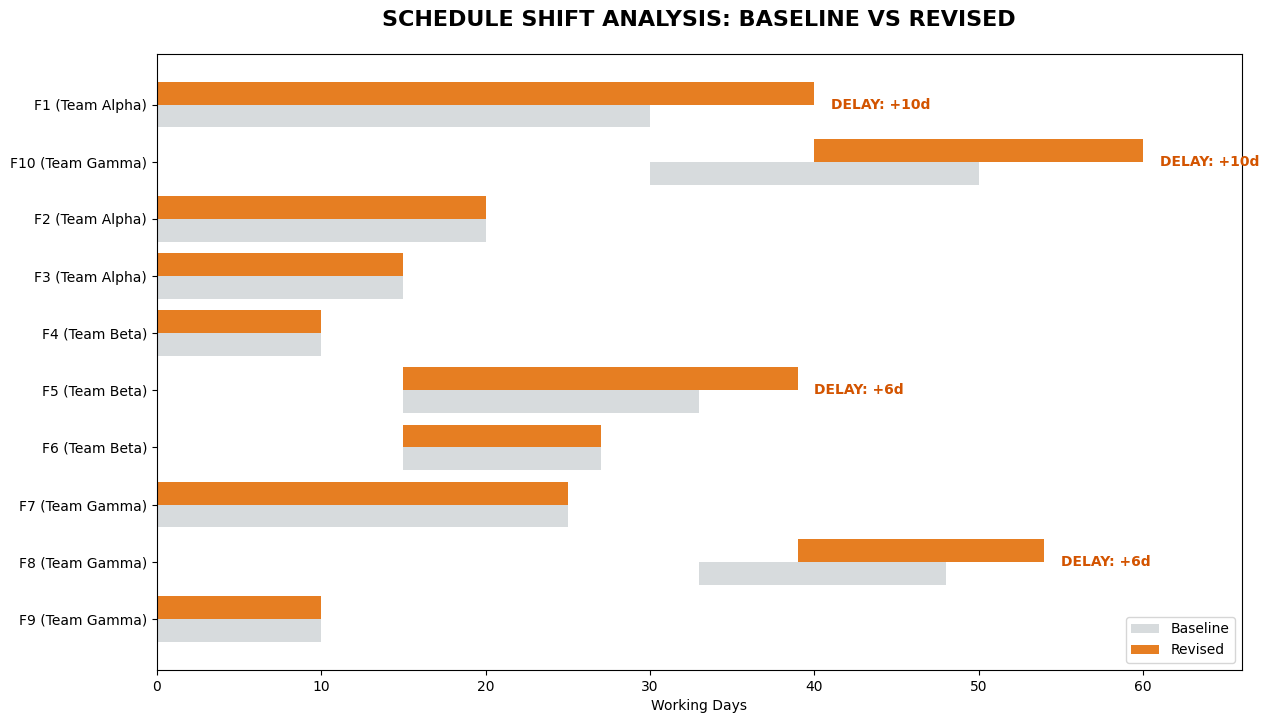
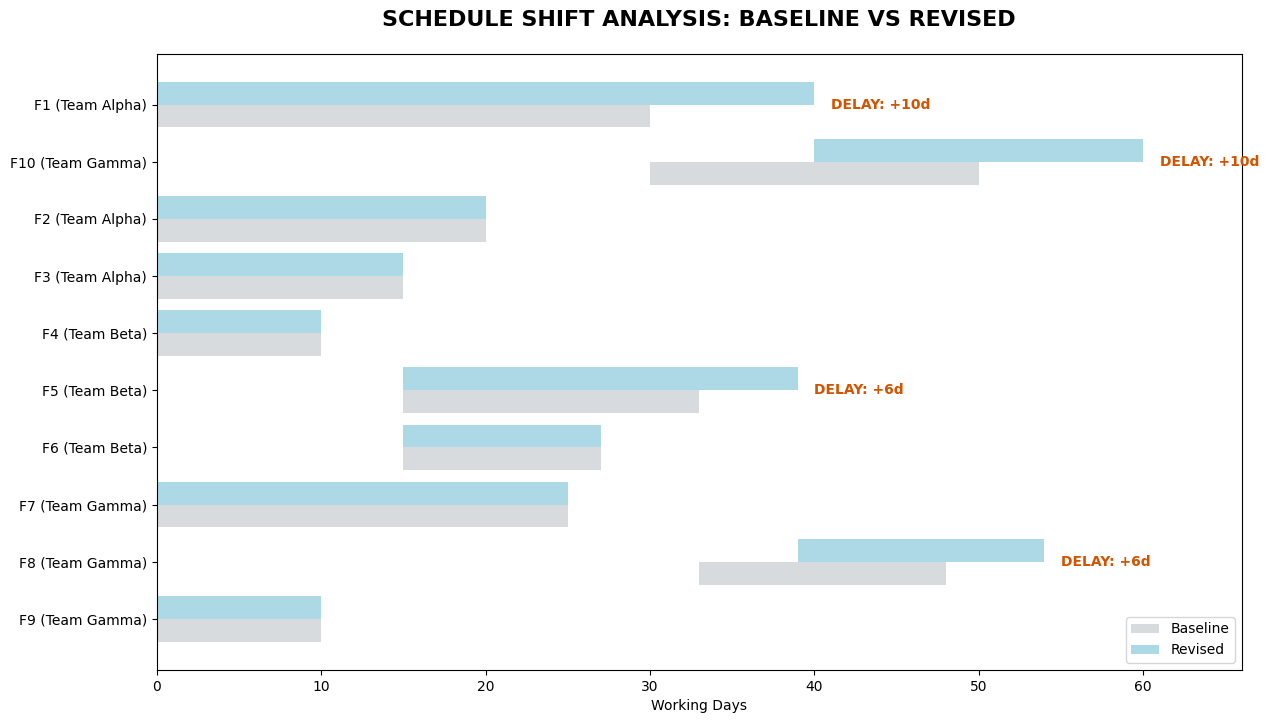
changes

diff --git a/traceability_tool.py b/traceability_tool.py
@@ -72,13 +72,13 @@ class FeatureAnalyzer:
         
         ax.barh(y_pos - 0.2, [r_end[f] - r_start[f] for f in features], 
                 left=[r_start[f] for f in features], height=0.4, 
-                label='Revised', color='#87ceeb')
+                label='Revised', color='#1e90ff')
         
         for i, f in enumerate(features):
             slip = r_end[f] - b_end[f]
             if slip > 0:
                 ax.text(r_end[f] + 1, i, f"DELAY: +{int(slip)}d", 
-                        va='center', color='#d35400', fontweight='bold')
+                        va='center', color='#1e90ff', fontweight='bold')
 
         ax.set_yticks(y_pos)
         ax.set_yticklabels([f"{f} ({self.G.nodes[f]['Team']})" for f in features])
